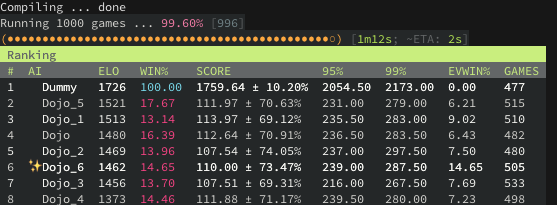
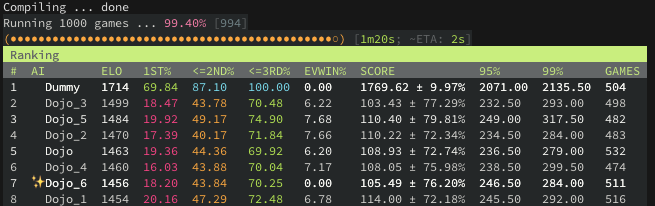
feat(evaluate): refactor, improve elo, add measurements

diff --git a/evaluate.go b/evaluate.go
@@ -14,19 +14,19 @@ import (
 )
 
 type aiResults struct {
-	NumWins          int
-	NumGames         int
-	Scores           []int
-	NumWinsEvaluated int
-	Elo              int
+	NumGamesAtPlaceOrBetter []int
+	NumGames                int
+	Scores                  []int
+	NumWinsEvaluated        int
+	Elo                     int
 }
 
 type EvaluationResult struct {
-	Player           string
-	NumWins          int
-	Scores           []int
-	NumWinsEvaluated int
-	Elo              int
+	Player                  string
+	NumGamesAtPlaceOrBetter []int
+	Scores                  []int
+	NumWinsEvaluated        int
+	Elo                     int
 }
 
 type gameResultError struct {
@@ -57,8 +57,92 @@ func updateElos(winner, loser *aiResults) {
 	pLoser := winProbability(winner.Elo, loser.Elo)
 	pWinner := winProbability(loser.Elo, winner.Elo)
 
-	winner.Elo += int(60 * (1 - pWinner))
-	loser.Elo += int(60 * (0 - pLoser))
+	winner.Elo += int(11 * (1 - pWinner))
+	loser.Elo += int(11 * (0 - pLoser))
+}
+
+func runGame(randGenTime *rand.Rand, ais []*ai.Ai, limit *limiter.ConcurrencyLimiter, gameResults chan gameResultError) {
+	descriptors := []string{}
+
+	playerSet := make(map[string]bool)
+
+	for player := 0; player < 4; player++ {
+		descriptor := ais[randGenTime.Intn(len(ais))].Descriptor()
+		if player < len(ais) {
+			_, ok := playerSet[descriptor]
+			for ok {
+				descriptor = ais[randGenTime.Intn(len(ais))].Descriptor()
+				_, ok = playerSet[descriptor]
+			}
+		}
+
+		playerSet[descriptor] = true
+		descriptors = append(descriptors, descriptor)
+
+	}
+
+	limit.Execute(func() {
+		gameResult, err := Run(descriptors, "time", true, false)
+		gameResults <- gameResultError{gameResult, err}
+	})
+}
+
+func processResult(evaluatedAi *ai.Ai, res gameResultError, aiToResults map[string]*aiResults, errChan chan error, onGameFinished func()) {
+	if res.err != nil {
+		errChan <- res.err
+	}
+
+	gameResult := res.result
+
+	scores := make(map[string]int)
+	for i, player := range gameResult.Players {
+		if gameResult.Scores[i] >= scores[player] {
+			scores[player] = gameResult.Scores[i]
+		}
+	}
+
+	for player, score := range scores {
+		var evaluations *aiResults
+		var ok bool
+		if evaluations, ok = aiToResults[player]; !ok {
+			evaluations = new(aiResults)
+			evaluations.Scores = make([]int, 0)
+			evaluations.NumGamesAtPlaceOrBetter = make([]int, 3)
+			evaluations.Elo = 1500
+		}
+
+		evaluations.Scores = append(evaluations.Scores, score)
+		aiToResults[player] = evaluations
+	}
+
+	winner := gameResult.Players[gameResult.Winner]
+
+	if winner == evaluatedAi.PlayerName() {
+		for player := range scores {
+			aiToResults[player].NumWinsEvaluated++
+		}
+	}
+
+	players := gameResult.PlayersSorted
+	p0 := aiToResults[players[0]]
+	p1 := aiToResults[players[1]]
+	p2 := aiToResults[players[2]]
+	p3 := aiToResults[players[3]]
+
+	updateElos(p0, p1)
+	updateElos(p0, p2)
+	updateElos(p0, p3)
+	updateElos(p1, p2)
+	updateElos(p1, p3)
+	updateElos(p2, p3)
+
+	for i, player := range gameResult.PlayersSorted {
+		for j := i; j < 3; j++ {
+			aiToResults[player].NumGamesAtPlaceOrBetter[j]++
+		}
+	}
+
+	onGameFinished()
 }
 
 // Evaluate ...
@@ -83,55 +167,7 @@ func Evaluate(evaluatedAi *ai.Ai, numGames int, againstDescriptors []string, onG
 
 	go func() {
 		for res := range gameResults {
-			if res.err != nil {
-				errChan <- res.err
-			}
-
-			gameResult := res.result
-
-			scores := make(map[string]int)
-			for i, player := range gameResult.Players {
-				if gameResult.Scores[i] >= scores[player] {
-					scores[player] = gameResult.Scores[i]
-				}
-			}
-
-			for player, score := range scores {
-				var evaluations *aiResults
-				var ok bool
-				if evaluations, ok = aiToResults[player]; !ok {
-					evaluations = new(aiResults)
-					evaluations.Scores = make([]int, 0)
-					evaluations.Elo = 1500
-				}
-
-				evaluations.Scores = append(evaluations.Scores, score)
-				aiToResults[player] = evaluations
-			}
-
-			winner := gameResult.Players[gameResult.Winner]
-
-			if winner == evaluatedAi.PlayerName() {
-				for player := range scores {
-					aiToResults[player].NumWinsEvaluated++
-				}
-			}
-
-			players := gameResult.PlayersSorted
-			p0 := aiToResults[players[0]]
-			p1 := aiToResults[players[1]]
-			p2 := aiToResults[players[2]]
-			p3 := aiToResults[players[3]]
-
-			updateElos(p0, p1)
-			updateElos(p1, p2)
-			updateElos(p2, p3)
-
-			evaluations := aiToResults[winner]
-			evaluations.NumWins++
-			aiToResults[winner] = evaluations
-
-			onGameFinished()
+			processResult(evaluatedAi, res, aiToResults, errChan, onGameFinished)
 		}
 
 		close(errChan)
@@ -142,29 +178,7 @@ func Evaluate(evaluatedAi *ai.Ai, numGames int, againstDescriptors []string, onG
 	randGenTime := rand.New(s)
 
 	for game := 0; game < numGames; game++ {
-		descriptors := []string{}
-
-		playerSet := make(map[string]bool)
-
-		for player := 0; player < 4; player++ {
-			descriptor := ais[randGenTime.Intn(len(ais))].Descriptor()
-			if player < len(ais) {
-				_, ok := playerSet[descriptor]
-				for ok {
-					descriptor = ais[randGenTime.Intn(len(ais))].Descriptor()
-					_, ok = playerSet[descriptor]
-				}
-			}
-
-			playerSet[descriptor] = true
-			descriptors = append(descriptors, descriptor)
-
-		}
-
-		limit.Execute(func() {
-			gameResult, err := Run(descriptors, "time", true, false)
-			gameResults <- gameResultError{gameResult, err}
-		})
+		runGame(randGenTime, ais, limit, gameResults)
 	}
 
 	limit.Wait()
@@ -179,7 +193,7 @@ func Evaluate(evaluatedAi *ai.Ai, numGames int, againstDescriptors []string, onG
 
 		evaluationResult := new(EvaluationResult)
 		evaluationResult.Player = player
-		evaluationResult.NumWins = aiResults.NumWins
+		evaluationResult.NumGamesAtPlaceOrBetter = aiResults.NumGamesAtPlaceOrBetter
 		evaluationResult.Scores = aiResults.Scores
 		evaluationResult.NumWinsEvaluated = aiResults.NumWinsEvaluated
 		evaluationResult.Elo = aiResults.Elo

diff --git a/main.go b/main.go
@@ -215,7 +215,7 @@ func evaluate(c *cli.Context) error {
 	t.SetOutputMirror(os.Stdout)
 	t.SetStyle(table.StyleColoredGreenWhiteOnBlack)
 	t.SetTitle("Ranking")
-	t.AppendHeader(table.Row{"#", "AI", "Elo", "Win%", "Score", "95%", "99%", "EvWin%", "Games"})
+	t.AppendHeader(table.Row{"#", "AI", "Elo", "1st%", "<=2nd%", "<=3rd%", "EvWin%", "Score", "95%", "99%", "Games"})
 
 	for i, evaluation := range evaluations {
 		numGames := len(evaluation.Scores)
@@ -226,7 +226,9 @@ func evaluate(c *cli.Context) error {
 			data[i] = float64(score)
 		}
 
-		winPercentage := 100 * float64(evaluation.NumWins) / float64(numGames)
+		firstPercentage := 100 * float64(evaluation.NumGamesAtPlaceOrBetter[0]) / float64(numGames)
+		secondPercentage := 100 * float64(evaluation.NumGamesAtPlaceOrBetter[1]) / float64(numGames)
+		thirdPercentage := 100 * float64(evaluation.NumGamesAtPlaceOrBetter[2]) / float64(numGames)
 		avgScore, _ := stats.Mean(data)
 		stdevScore, _ := stats.StandardDeviation(data)
 		percentile95, _ := stats.Percentile(data, 95)
@@ -239,17 +241,20 @@ func evaluate(c *cli.Context) error {
 
 		if evaluation.Player == myAi.PlayerName() {
 			playerPrefix = "✨"
+			winPercentageEvaluated = 0
 		}
 
 		t.AppendRow(table.Row{
 			i + 1,
 			fr(playerPrefix+evaluation.Player, isSpecial),
 			fr(evaluation.Elo, isSpecial),
-			fr(fw(winPercentage), isSpecial),
+			fr(fw(firstPercentage), isSpecial),
+			fr(fw(secondPercentage), isSpecial),
+			fr(fw(thirdPercentage), isSpecial),
+			fr(ff(winPercentageEvaluated), isSpecial),
 			fr(fmt.Sprintf(`%.2f ± %.2f%s`, avgScore, 100*stdevScore/avgScore, "%"), isSpecial),
 			fr(ff(percentile95), isSpecial),
 			fr(ff(percentile99), isSpecial),
-			fr(ff(winPercentageEvaluated), isSpecial),
 			fr(numGames, isSpecial),
 		})
 	}
